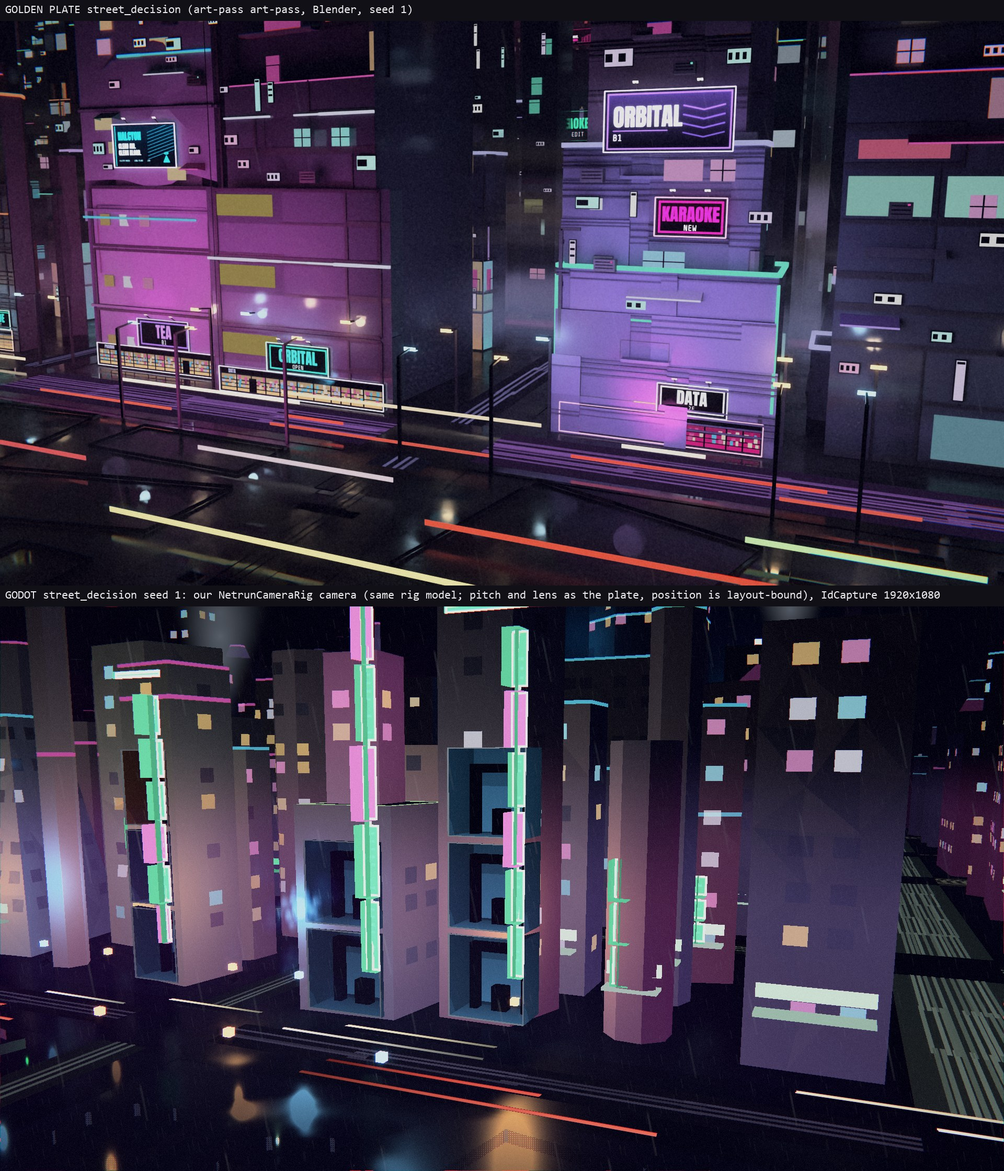
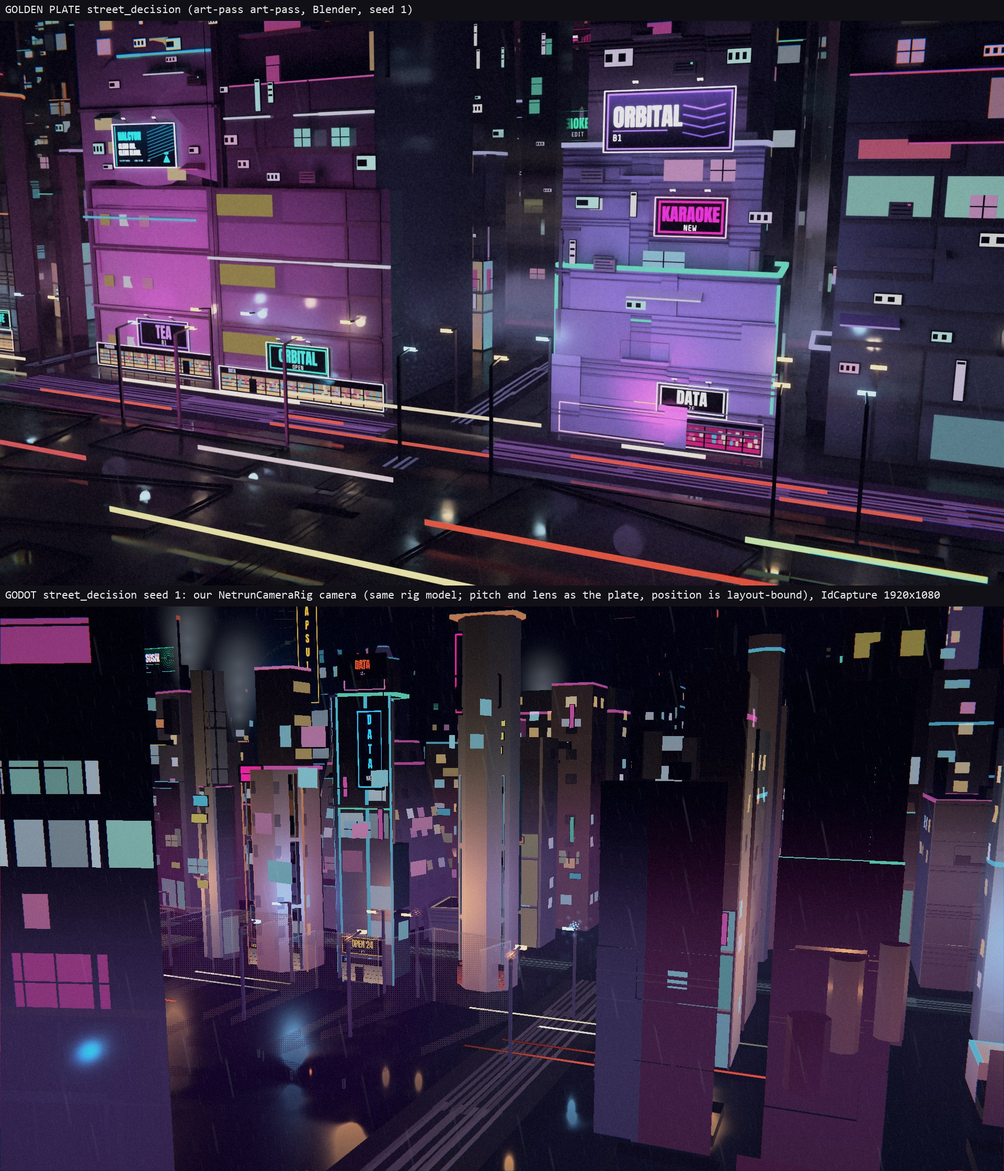
P2 step 2 city: facade wash, smoke check, DECISIONS, parity sheets street_overview / street_decision seed 1

diff --git a/docs/DECISIONS.md b/docs/DECISIONS.md
@@ -9197,3 +9197,5 @@ Answers applied (orchestrator): HQ stand-ins are exempt from the 6-floor frontag
 - **State hash.** The block joins `to_dict` (and so `state_hash`) only when a field is non-default: every existing save, replay and seeded-run hash is unchanged (the fixture's recorded hashes match on the WH-02 build); setting a field changes the hash, setting it back restores it.
 - **Config (schema change).** `CampaignConfigData` gains the `Corp theme` export group with every WH-01 table key and default (Solace `bloom_*` / `raid_infection_*`, Halcyon `eye_*` / `blade_*` / `hq_gaze_*`, REBEL_CELL `hq_lane_*` / `lane_*` / `hq_seq_steps`, Orbital `*dark*` / `uplink_*`, Meridian `meridian_*` for the table's `meridian.` keys). The table's `raid_config.rebel_first_wave` is `rebel_raid_first_wave` (no raid config resource exists); `lane_tag_default` (`STREET`) is added so the table's literal default has a config home. `campaign_config.tres` writes none of them (defaults). Smoke check `_wh02_corp_theme_config`.
 - **HUD chip.** `NetrunSession.theme_chip()` returns `{key, args, kind}` (`RunThemeState.ChipKind` INFO / WARN / DANGER) or `{}`; the netrun scene shows it in `HudBar.theme_chip` (`ThemeChip`, after the stats; hidden when empty). No rule fills it yet; the Heat chip (REPLAN G) and the corp slices use it. Capture `docs/art_review/PLAN2/W2_WH02_chip.jpg`. Tests: `test_corp_theme_state` (fast).
+
+- **2026-10-19 Street look parity P2 step 2: the Godot street renders the r2 frontage (A-034 items 1 + 4; A-021 r2 modules, A-024 street kit).** (1) `StreetR2Builder` (`scripts/netrun_art/street_r2_builder.gd`, with `_geometry`, `_materials`, `_props`, `_sign_boards`, `_sign_canvas`) consumes the `StreetR2Adapter.plan_street` plan directly: procedural facade meshes from the `kit_face` / `roof_clutter` records of every building within `facade.radius` of the street (kit buildings are pushed `facade.push` BU out of the city's own wall; concrete-band buildings keep the city wall and get the rhythm's lit windows), lit trims and roof rims, one MeshInstance3D per building, one surface per material. (2) Planned signs are textured quads (draw lists rasterized in a SubViewport with the Anton / Share Tech Mono fonts; `measure` = Godot glyph boxes times `signs.measure_h_k`); the ad plates are hue-field placeholders (the plate's concept art is not in the repo). (3) Props, lamps and crowns are the street-kit glb (`assets/street_kit/`, glb only) as MultiMeshes with a per-instance tint in INSTANCE_CUSTOM. (4) The old signs / shops / billboards / lamps of `StreetDressing` (the tall yellow-green and teal bars) are cut when the r2 frontage is on (`build(..., r2_frontage = true)`); the street light rig takes the r2 lamp positions. (5) New config `content/config/street_r2_render.tres` (`StreetR2RenderConfigData`, apart from the plate's `street_r2.tres` so the Python twin is untouched); new shaders `shaders/street_r2/` (flat vertex colour, no toon ramp; the NA-22c street wash at `wash_k` times the city's gain stands in for the facade wash lights). `city_building.gdshader` and the netrun environment are not touched. Open (Q): plate sign LOD tiers t1 / t2 / t3 (one tier is drawn), the sign glow / holo-shift post filters, the megastructure, the near-side cut buildings' kit and the wet kerb line are not done.
